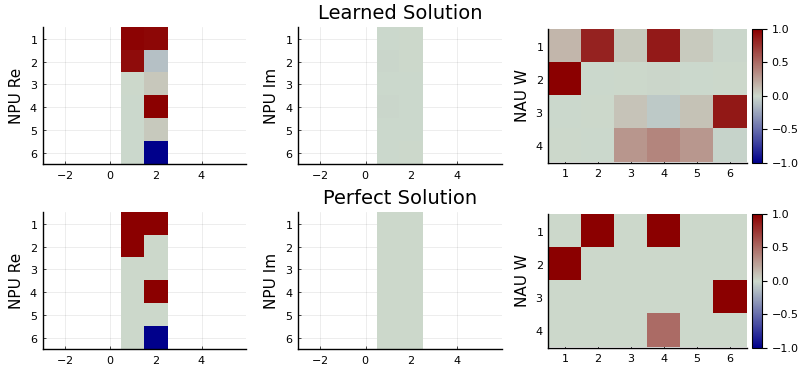
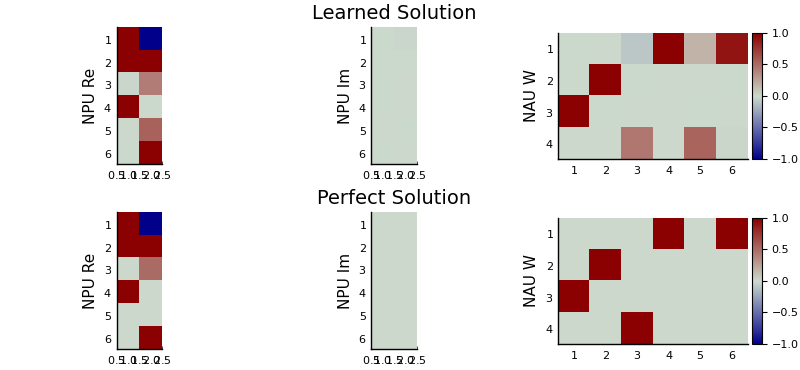
update example

diff --git a/README.md b/README.md
@@ -5,17 +5,41 @@
 
 Collection of layers that can perform arithmetic operations such as addition,
 subtraction, multiplication, and division in a single layer.  Implements
-[NALU](https://arxiv.org/abs/1808.00508),
-[iNALU](https://arxiv.org/abs/2003.07629),
-[NMU & NAU](https://openreview.net/forum?id=H1gNOeHKPS), and [NPU](https://arxiv.org/abs/2006.01681).
+[NPU](https://arxiv.org/abs/2006.01681),
+[NMU & NAU](https://openreview.net/forum?id=H1gNOeHKPS)
+[NALU](https://arxiv.org/abs/1808.00508), and
+[iNALU](https://arxiv.org/abs/2003.07629).
 
 And additionally `FastNAU` and `FastNPU` for use with [DiffEqFlux.jl](https://github.com/SciML/DiffEqFlux.jl).
 
-# Simple Neural Arithmetic
+# A Simple Example
+
+The script [examples/npu.jl](examples/npu.jl) illustrates how to learn a the function `f`
+```julia
+f(x,y) = (x+y, x*y, 1/x, sqrt(x))
+```
+with a stack of NPU and NAU.
+The NPU can perform multiplication, division, and other power functions of its inputs.
+An NPU with two inputs `x` and `y` can perform `x^a * y^b` for each hidden variable.
+The NAU is just a matmul, so it can perform `a*x + b*y` (i.e. addition/subtraction).
+For more information check out the [NPU paper](https://arxiv.org/abs/2006.01681).
+
+The image below shows the learned weights of the model compared to the perfect solution.
+The first plot shows the real weights of the NPU, where the first
+row forms the first hidden activation `h1 = x^1*y^1 = x*y`, the second row
+forms the second hidden activation `h2 = x^1*y^0`, and so on.
+The last row performs division `h6 = x^0*y^(-1)`.
+The NAU performs the remaining addition in the first row.
+
+![npu](img/npu_example.png)
+
+
+
+# Comparing Neural Arithmetic Units
 
 As an example, we can train different layers to learn the function
 ```julia
-f(x,y) = (x+y, x*y, 1/x, sqrt(x))
+f(x,y) = (x+y, x*y, x/y, sqrt(x))
 ```
 which has two inputs and four outputs. For mo.  The figure below plots the
 error of each layer and arithmetic operation in `f` for training and testing
